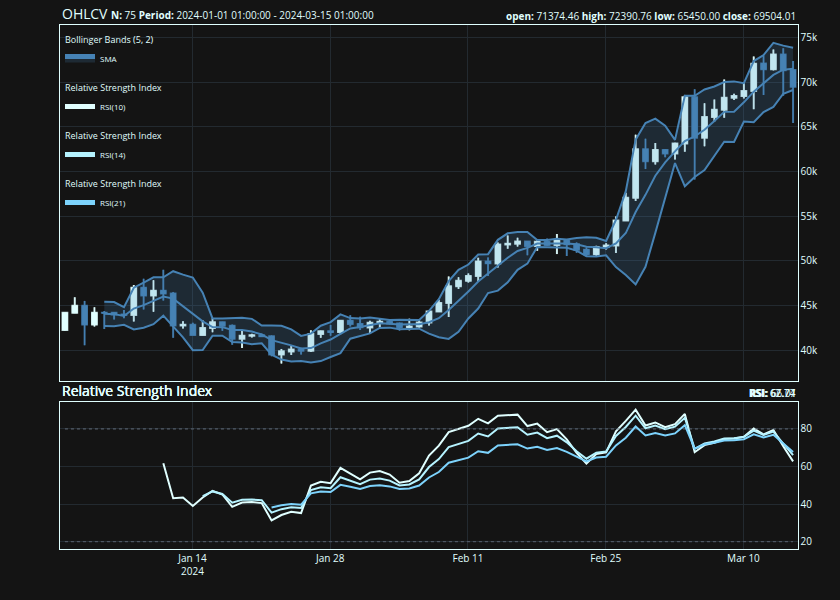
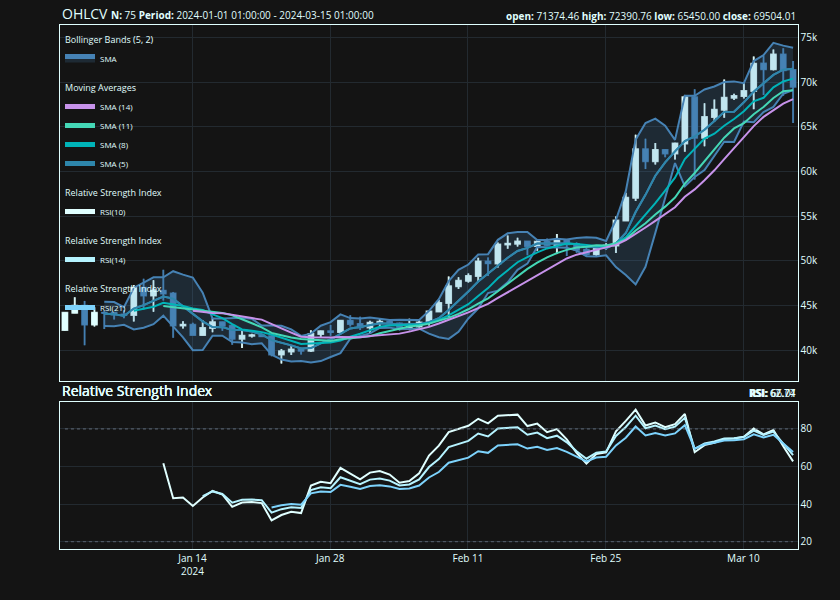
:books: Expanded charting

Changed region(s): [[0.0619, 0.15, 0.9595, 0.6], [0.0619, 0.12, 0.2167, 0.36], [0.0619, 0.39, 0.1857, 0.45]]

diff --git a/README.md b/README.md
@@ -27,6 +27,11 @@ charting support is available through optional
 [{plotly}](https://github.com/plotly/plotly.R) and
 [{ggplot2}](https://ggplot2.tidyverse.org/) integrations.
 
+The API covers 150+ [TA-Lib](https://github.com/TA-Lib/ta-lib)-backed
+functions across momentum, overlap,volatility, volume, cycle,
+price-transform, rolling-statistics, and candlestick-pattern families,
+including 61 candlestick pattern detectors.
+
 ## Why {talib}?
 
 <div align="center">
@@ -120,6 +125,14 @@ OHLCV <- talib::BTC[1:75, ]
     talib::chart(OHLCV)
     talib::indicator(talib::BBANDS)
 
+    ## pass moving averages
+    for (n in seq(5, 15, by = 3)) {
+        talib::indicator(
+            talib::SMA,
+            n = n
+        )
+    }
+
     ## pass multiple calls to combine
     ## them on a single sub-panel
     talib::indicator(
@@ -155,7 +168,7 @@ compatibility with the broader ecosystem:
 ### Interface: R vs Python
 
 The main difference between the `R` and `Python` implementation is how
-OHLCV series are passed into each indicator function. Below are an
+OHLCV series are passed into each indicator function. Below is an
 example of identifying `Doji` patterns in `R` and `Python`.
 
 In `Python` each series are passed independently:
@@ -190,8 +203,8 @@ talib::CDLDOJI(
 ```
 
 All default series arguments are handled internally, and the `R`
-implementation can therefore be considered a higher level
-implementation.
+interface is therefore higher-level: users pass one OHLC container
+rather than manually splitting the series.
 
 ## Contributing and cloning
 
